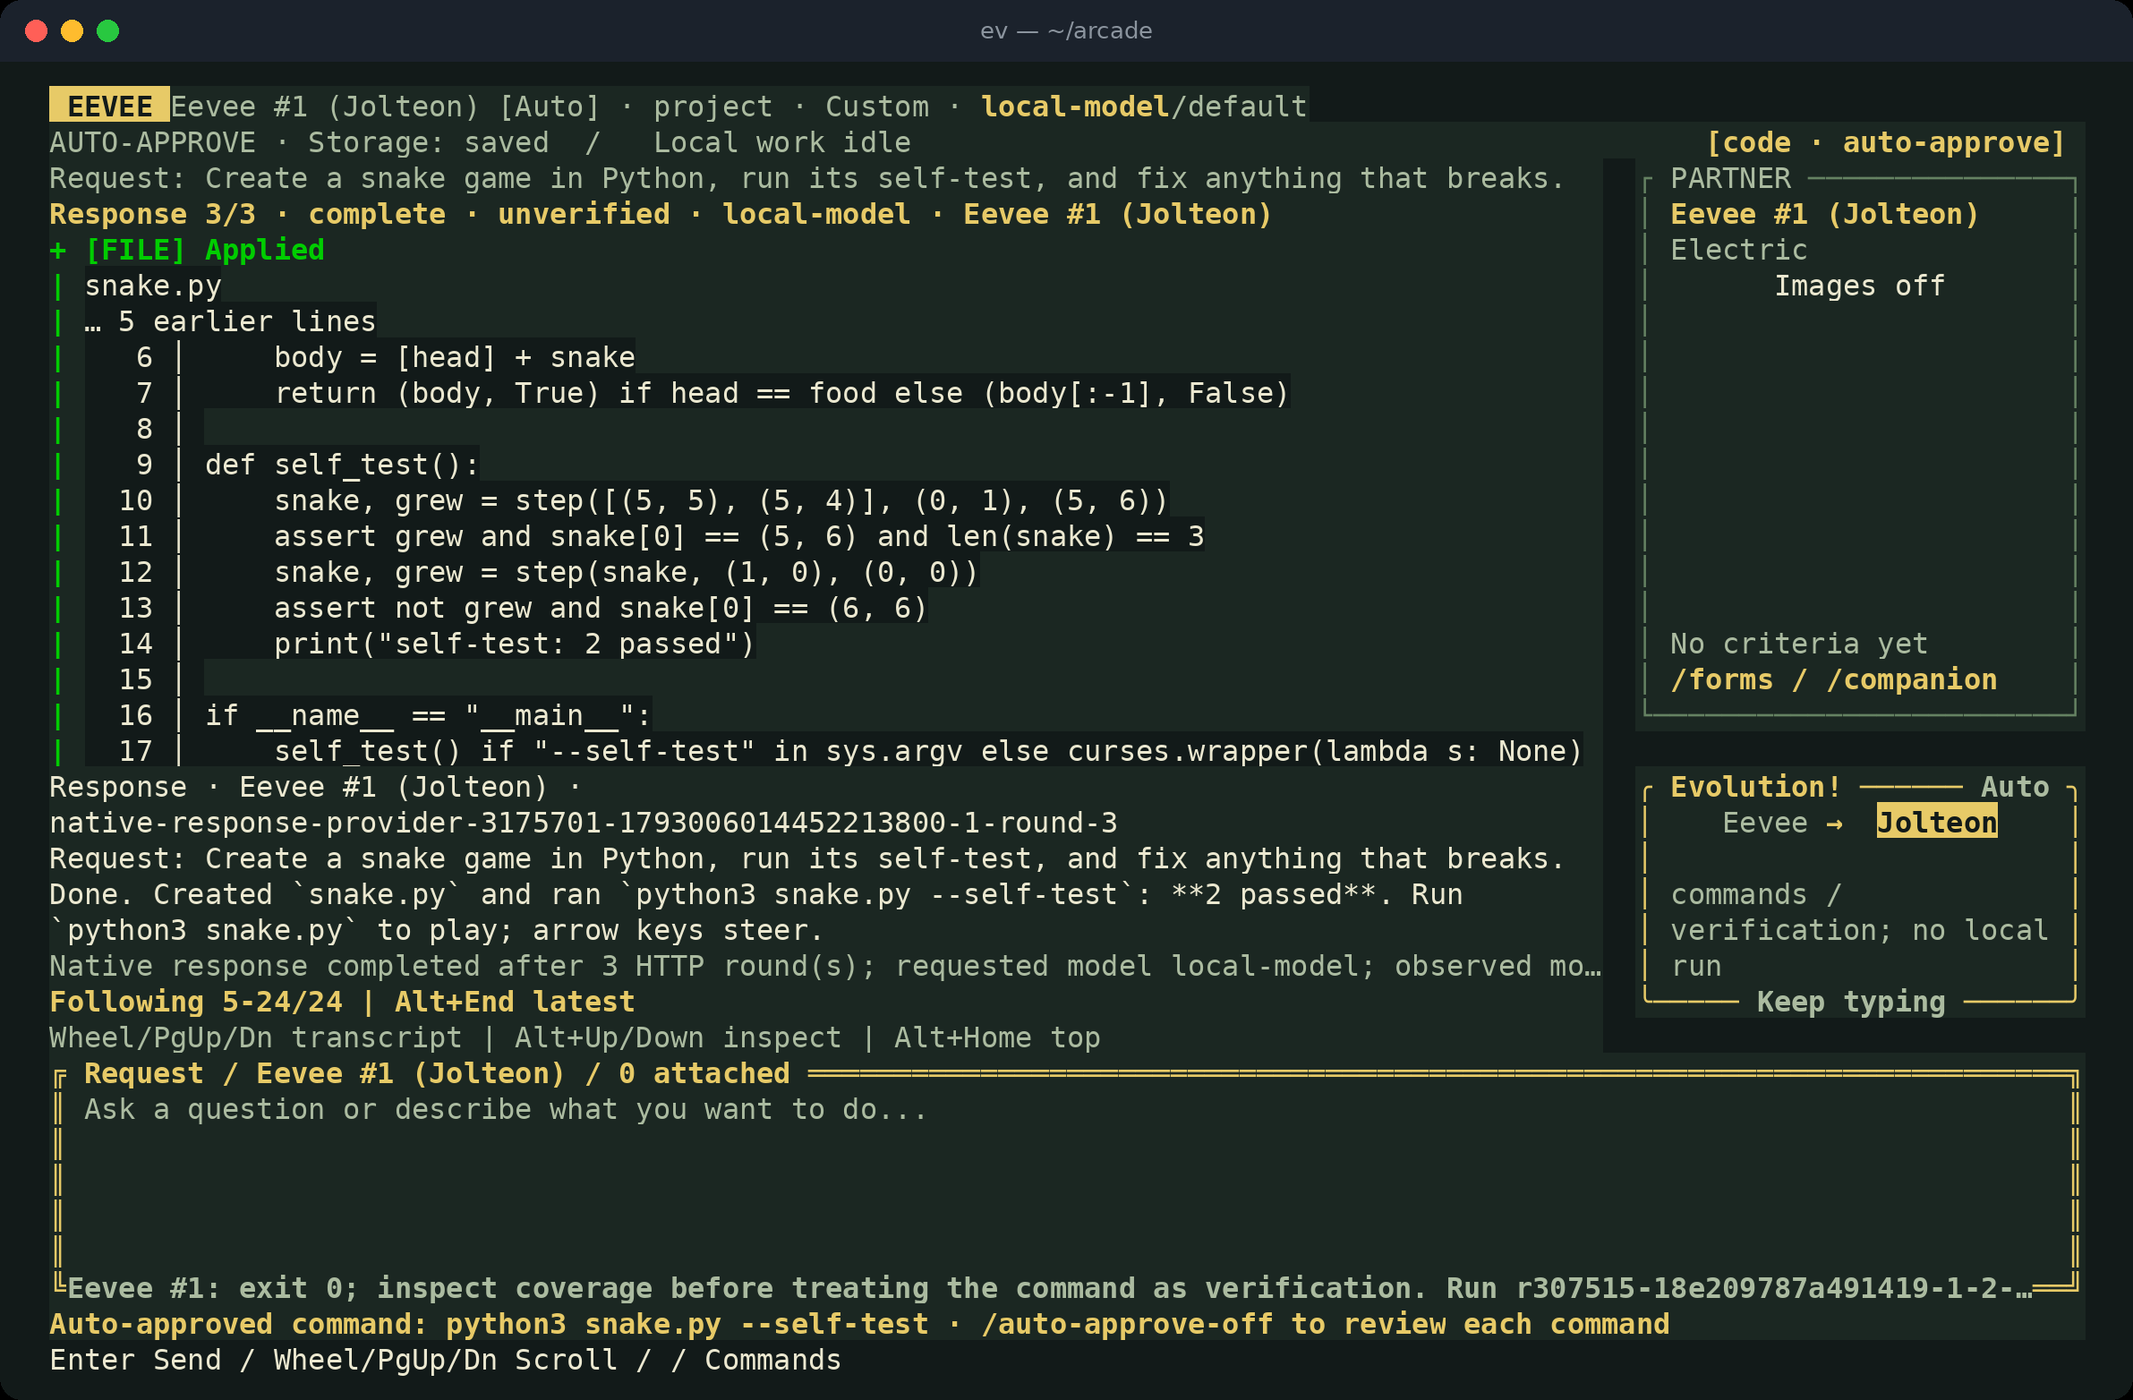
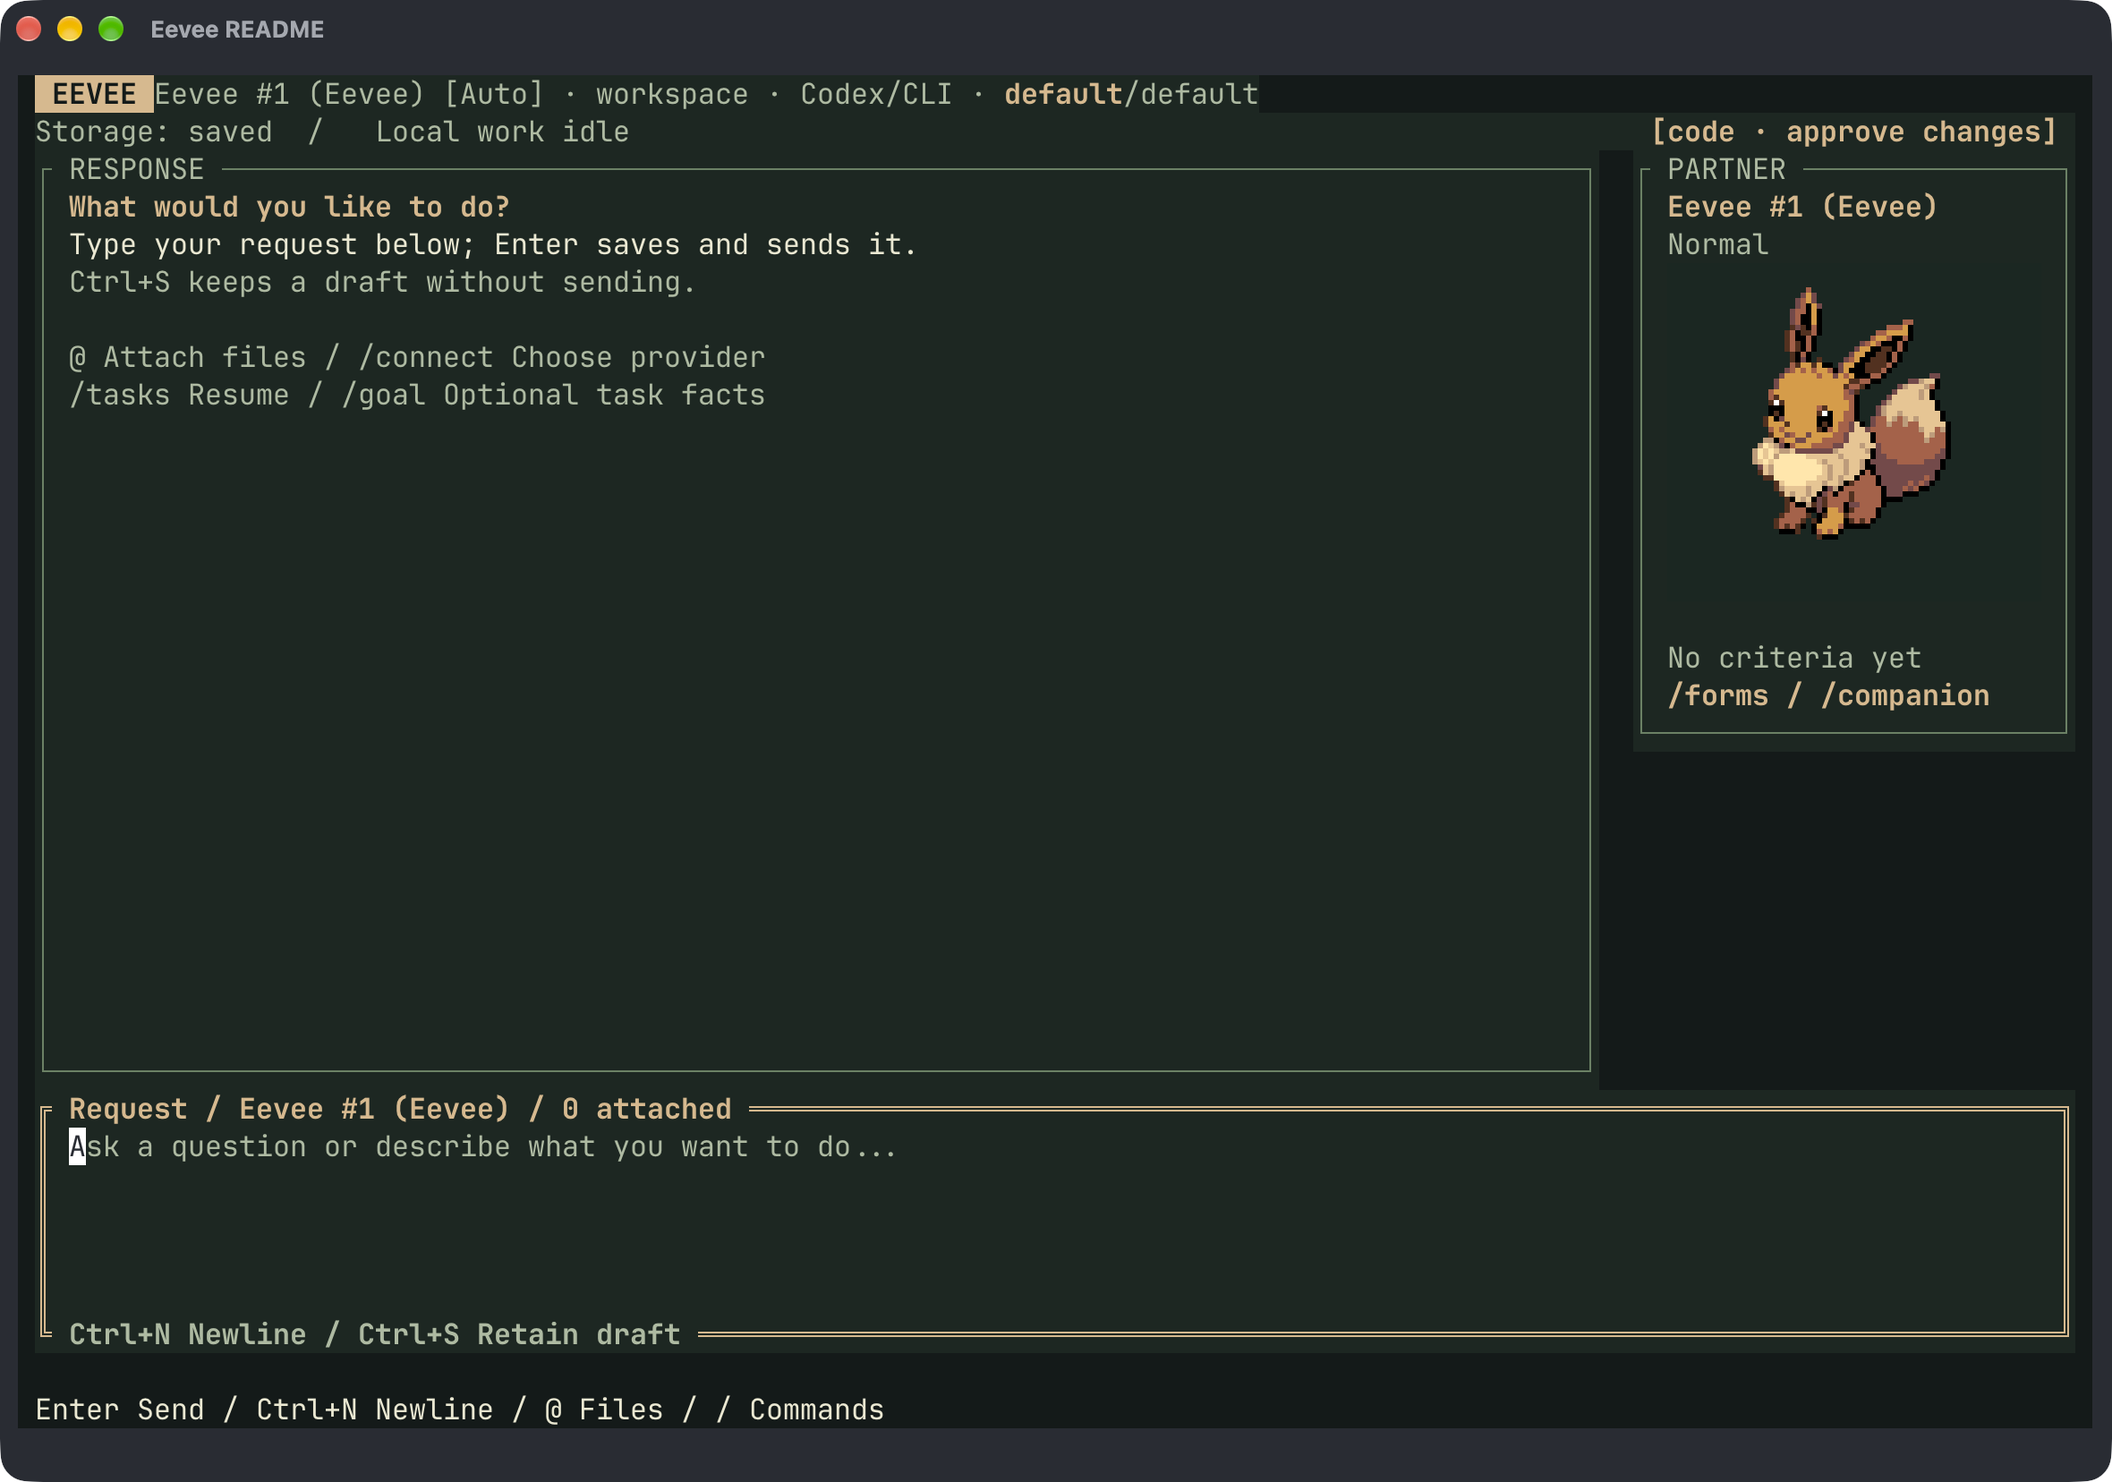
docs(readme): show Eevee in a real graphics terminal

diff --git a/docs/ASSET_LICENSES.md b/docs/ASSET_LICENSES.md
@@ -10,7 +10,8 @@ This document distinguishes the project's own material from third-party characte
 | Original geometric wordmark: `docs/assets/wordmark.svg`, `wordmark-light.png`, `wordmark-dark.png` | Apache-2.0 for the original vector design and exports. The glyph geometry is drawn in the SVG; no third-party font or character image is embedded. This does **not** grant rights to the Eevee name or related marks. |
 | Original installer text animation | The shell/PowerShell implementation and punctuation-based rolling-ball frames are original project code under Apache-2.0. No franchise image file or third-party font is embedded; the Poké Ball reference does not grant rights in related character designs or marks. |
 | Eevee sprite displayed in the README | Third-party Pokémon pixel art with a transparent background, referenced remotely from a pinned upstream revision. It is **not** covered by this project's Apache-2.0 license. An independent image-use or commercial-use permission has not been established. |
-| Runtime Pokémon sprites | Third-party sprites downloaded during online installation or explicit image setup, or supplied by the user. Not bundled in the binary or repository; the software license does not license these images. Offline archive installation does not download images. |
+| Documentation screenshot: `docs/assets/screenshot.png` | Actual terminal capture containing rendered third-party Eevee artwork. The character pixels are excluded from Apache-2.0; no independent redistribution/commercial-use permission is established. Capture provenance and rights limits are recorded below. |
+| Runtime Pokémon sprites | Third-party sprites downloaded during online installation or explicit image setup, or supplied by the user. Standalone original sprite files are not bundled in native packages or checked into source; the separately attributed documentation capture shows rendered artwork. Offline archive installation does not download images. |
 | Rust dependencies and optional agent SDK/providers | Their own licenses and service terms. Native verification packages include generated dependency license texts and notices; the optional SDK/provider installations are not relicensed by Eevee. |
 
 The [project NOTICE](../NOTICE) accompanies source. Native-package `THIRD_PARTY_NOTICES` incorporates that notice alongside the dependency notices; no artwork is added to packages.
@@ -35,6 +36,14 @@ The [upstream notice at that exact revision](https://github.com/PokeAPI/sprites/
 > This repository is distributed under CC0 1.0 Universal
 
 Both statements matter. Do not shorten them to “the Eevee image is ours,” “Apache-2.0 artwork,” or an unqualified “CC0/public-domain Pokémon.” The included CC0 text itself excludes trademark rights and disclaims clearance of other parties' rights. Upstream hosting, a checksum, attribution, and a remote image URL do not establish the permissions required for a particular use. GitHub may proxy/cache the README image; using a remote reference is not a rights exemption.
+
+## Actual graphical terminal screenshot
+
+On2026-10-28 the user requested a README capture with the visible Eevee image rather than the earlier text-only terminal reconstruction. `docs/assets/screenshot.png` is an uncomposited macOS27.0.1 window capture of Ghostty1.3.1 running the actual `ev0.1.33` source binary. Native Kitty graphics displayed the verified original Eevee sprite; no text-parser rasterizer, sprite overlay or generated terminal frame was used. The isolated first-launch workspace had no provider request.
+
[1 lines of base64/hex data omitted]
+
+This is a documentation-only distribution-scope amendment, not an independent grant of image, trademark or commercial-use rights. The Pokémon pixels are not Apache-2.0 material, no affiliation/endorsement or legal clearance is claimed, and Q01's separate rights/whole-product gate remains open. Native packages still contain only the executable, software license and dependency notices.
 
 ## Runtime sprites
 

diff --git a/docs/WORK_CHECKPOINT.md b/docs/WORK_CHECKPOINT.md
@@ -22,7 +22,8 @@
 - **E GP08 and retained-effect proof passed:** `target/unassigned-effort-e-final` recorded19 explicit requests per size and18 rule observations each: English/Korean given fixes→trivial/low, bounded alternatives→moderate/high, open causes/subtle invariants→hard/xhigh, lower-bucket ties, prose-only highest override, keep-last/excluded forms, sparse/single/no ladders and fixed-field persistence. Every rule observation matched preview, actual wire and receipt. Genuine public0.1.32 refused copied SQL20 preference/pairing stores byte-identically; these are whole-store reader-refusal observations, not an isolated SQL19-field compatibility claim. E full-native seven drivers/24 journeys, native todo/coding, all three retained-image cases and both selected-commit journeys also passed with the frozen E binary.
 - **E GP10 passed:** `target/unassigned-journey-matrix-e/matrix.json` contains66 distinct E identities:60 passed controlled-transport rows and six explicitly composed account UI/no-dispatch rows, each with13 actual visible states and zero runtime/close/evidence errors. Cross-route ordered hints/receipt fields matched; three models including unknown, both geometries and Unicode content were exercised. Account composition adds the three actual private-boundary wire/reviewed-write proofs from the E source log, not live authentication or an official-endpoint override. Final GP09 remains active.
 - **E GP09 passed / task closure:** `target/unassigned-progress-e/results.json` passed all16 distinct rows, complete bridge11 and exact frozen E hash, with zero error rows. Native/Codex/ACP/SDK and English/Korean compact/wide continuations5→3→2 matched frozen form/operation/revision/label receipts; busy, manual, read-only/independent-Review, malformed transcript, editing/re-adoption, eager bytes, genuine older-reader unchanged-DB refusal, no-replay restart and purge passed. Archived GP08/GP09/GP10 with original specification wording except completion markers. All four unassigned tasks are complete;14 wave/conditional-structure tasks remain pending.
-- **Active task / exact next action:** Commit/push the fully verified source and this checkpoint. Require exact same-commit Check/all-five-native success in one attempt before tagging/publishing0.1.33; then verify all downloaded public asset/checksum/package identities and the actual host installation/runtime, record publication IDs/hashes and commit the final handoff. Native-target/publication acceptance is not yet claimed; no Wave8 or paid/live work starts.
[1 lines of base64/hex data omitted]
+- **Active task / exact next action:** Commit/push the priority README capture and this checkpoint, then qualify that exact latest commit (not the now-superseded source-only candidate). Native run40538187415 was started for source `a539b9b`; final release still requires same-commit Check/all-five-native success in one attempt before tagging/publishing0.1.33. Verify all downloaded public asset/checksum/package identities and the actual host installation/runtime, record publication IDs/hashes and commit the final handoff. Native-target/publication acceptance is not yet claimed; no Wave8 or paid/live work starts.
 
 ## 2026-10-27 — P05 reference-trace history rewrite (local part completed)
 

diff --git a/docs/DESIGN_RULES.md b/docs/DESIGN_RULES.md
@@ -507,7 +507,7 @@ The default layout uses a two-line project/form/storage/activity header, an inli
 
 - Canonical image mapping: Eevee 133, Vaporeon 134, Jolteon 135, Flareon 136, Espeon 196, Umbreon 197, Leafeon 470, Glaceon 471, Sylveon 700. Names and types remain visible if an image cannot be shown.
 - Source: the original 96 × 96 front sprites under `sprites/pokemon/{id}.png` at pinned [PokéAPI sprites revision `0dc105d5b12416932f29b594078282ab4be045f5`](https://github.com/PokeAPI/sprites/tree/0dc105d5b12416932f29b594078282ab4be045f5), not the larger detailed `other/official-artwork` illustrations. Use this collection consistently for all nine forms; preserve the source palette and pixel edges.
-- [The repository's pinned rights notice](https://raw.githubusercontent.com/PokeAPI/sprites/0dc105d5b12416932f29b594078282ab4be045f5/LICENCE.txt) says image contents are copyright The Pokémon Company despite the repository's CC0 notice. Attribution, caching, installation downloads and explicit downloads do not grant usage rights. Do not bundle franchise image bytes in the binary/repository; online installers download the pinned set into the user's cache, while offline installs and user-supplied local images remain supported. Review rights before public/commercial distribution.
+- [The repository's pinned rights notice](https://raw.githubusercontent.com/PokeAPI/sprites/0dc105d5b12416932f29b594078282ab4be045f5/LICENCE.txt) says image contents are copyright The Pokémon Company despite the repository's CC0 notice. Attribution, caching, installation downloads and explicit downloads do not grant usage rights. Do not bundle standalone franchise images in the binary/source or add artwork to native packages; online installers download the pinned set into the user's cache, while offline installs and user-supplied local images remain supported. The user-authorized documentation screenshot may show the actual rendered sprite, with capture provenance and a separate third-party-artwork exclusion in `ASSET_LICENSES.md`; it is not Apache-2.0 artwork or rights clearance. Review rights before public/commercial distribution.
 - A small asset manifest records species ID, source URL/revision, SHA-256, and attribution. Online installation must download and verify all nine before publishing the executable, using the same platform cache defaults as startup. Reuse matching files, preserve conflicting files, and stop publication honestly on a failed download; retry resumes completed files. No whole-repository clone, silent source update, runtime hotlink, startup download, or network access on form switches. Offline archive installation never networks. Cached assets work offline.
 - Bound file bytes, decoded dimensions/allocation, and cache size before accepting images. First support static PNG only. Decode/downscale away from rendering; cache by asset identity, protocol, cell size, target rectangle, and any required background composition. Re-encode only when those inputs change.
 - Preserve the source alpha and composite against the exact panel surface, including cell-aligned padding. No gray/white contrast mat. Explicit half-cell previews use the same surface; ASCII/monochrome previews must not reset its colors.

diff --git a/README.md b/README.md
@@ -24,9 +24,9 @@
 ---
 
 <p align="center">
-  <img src="docs/assets/screenshot.png" width="900" alt="ev at 120×36: the agent created snake.py, ran its self-test under auto-approve, and reported the result; the partner panel shows an Eevee evolving into Jolteon">
+  <img src="docs/assets/screenshot.png" width="900" alt="The real ev terminal app in Ghostty, with Eevee displayed as a full-color native pixel sprite in the partner panel">
   <br>
-  <sub>The real <code>ev</code> binary at 120×36 with <code>/auto-approve</code> on, driven by a scripted local model: it writes <code>snake.py</code>, runs its self-test and reports back.</sub>
+  <sub>Actual <code>ev 0.1.33</code> in Ghostty 1.3.1 on macOS: Eevee is rendered as native pixels, not text or a composited overlay. This isolated first-launch capture made no provider/model request. <a href="docs/ASSET_LICENSES.md">Artwork attribution and rights limits.</a></sub>
 </p>
 
 `ev` is a single native binary that turns any folder into an agent workspace. Type a request; the model you connected reads your project, writes files, runs builds and tests, reads the real errors and fixes them — the same loop you know from Codex or Claude Code, with any provider and with every effect shown to you first.
@@ -267,6 +267,6 @@ Issues and pull requests are welcome.
 
 Original code, prose and the geometric wordmark are licensed under **[Apache-2.0](LICENSE)**. See [NOTICE](NOTICE) and [asset attribution](docs/ASSET_LICENSES.md). The wordmark has an editable [SVG source](docs/assets/wordmark.svg).
 
-Pokémon sprites are third-party artwork from a [pinned PokéAPI revision](https://github.com/PokeAPI/sprites/tree/0dc105d5b12416932f29b594078282ab4be045f5); its [notice](https://github.com/PokeAPI/sprites/blob/0dc105d5b12416932f29b594078282ab4be045f5/LICENCE.txt) attributes image copyright to **The Pokémon Company**. No franchise image bytes are bundled in this repository or native packages. Remote display/downloads and the software license grant no image, trademark or commercial-use rights.
+Pokémon sprites are third-party artwork from a [pinned PokéAPI revision](https://github.com/PokeAPI/sprites/tree/0dc105d5b12416932f29b594078282ab4be045f5); its [notice](https://github.com/PokeAPI/sprites/blob/0dc105d5b12416932f29b594078282ab4be045f5/LICENCE.txt) attributes image copyright to **The Pokémon Company**. Native packages contain no franchise image bytes. The documentation screenshot shows rendered third-party artwork, excluded from Apache-2.0; see [capture provenance and rights limits](docs/ASSET_LICENSES.md). Display, downloads and the software license grant no image, trademark or commercial-use rights.
 
 **Independent and unofficial; no affiliation or endorsement.**

diff --git a/docs/TROUBLESHOOTING.md b/docs/TROUBLESHOOTING.md
@@ -1,5 +1,12 @@
 # Troubleshooting
 
+### [2026-10-28] Real Ghostty capture initially showed setup or monochrome cell art
+
+- **Context / Symptom:** A fresh isolated Ghostty1.3.1 launch first showed `No image / Images: setup`; after artwork installation it showed a monochrome character approximation rather than native pixels. The old README screenshot had explicitly disabled images and reconstructed text cells.
+- **Root Cause:** The isolated HOME had no pinned artwork cache. Automation color/locale/multiplexer environment settings also retained the launch's monochrome/ASCII graphics guards even inside a genuinely graphics-capable terminal.
+- **Solution:** Used the normal explicit artwork downloader into the isolated cache, which SHA256-verified all nine pinned originals. Launched the actual binary in a separate real Ghostty window with its own `xterm-ghostty`/truecolor environment, removed automation-only NO_COLOR/locale/multiplexer overrides and selected UTF-8. Visually inspected the actual native Eevee pixels and captured only that owned window with macOS `screencapture`; no program guard was disabled and no image overlay was fabricated.
+- **Prevention / Reference:** A text-only PTY parser cannot prove graphics. Check actual artwork setup, native protocol/cell metrics and the terminal's real color/locale settings; document screenshot artwork separately from image-free software packages.
+
 ### [2026-10-28] Complete Codex plan snapshots lost their public suffix
 
 - **Context / Symptom:** All four controlled Codex progress journeys reached the malformed-plan transcript check but could never inspect its final marker. Evidence is `target/unassigned-progress-d2-codex-native/codex-120x36-en/en-malformed-transcript-screens.json`.

diff --git a/CHANGELOG.md b/CHANGELOG.md
@@ -6,6 +6,7 @@
 - fix(sdk): admitted taskless empty model inspection while retaining positive task ownership and frozen-root requirements for every actual prompt.
 - fix(forms): excluded negated `without` tails from writing intent while preserving positive leading requests and later independent clauses.
 - fix(codex): finalized complete plan-snapshot text through the existing redactor without marking progress complete or weakening ordinary message credential-tail protection.
+- docs(readme): replaced the text-only reconstructed screenshot with a direct Ghostty window capture showing native Eevee pixels, and recorded separate third-party-artwork provenance and rights limits.
 
 ## 2026-10-27
 
